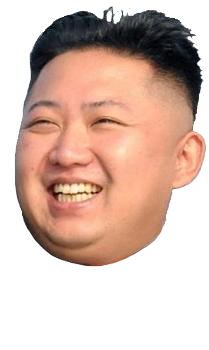
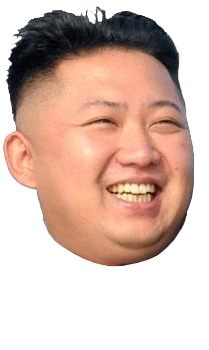
ajout de l'animation de début

diff --git a/www/style.css b/www/style.css
@@ -3,6 +3,34 @@
   margin: 0;
 }
 
+/* .color-change-3x {
+	-webkit-animation: color-change-3x 6s linear infinite alternate both;
+	        animation: color-change-3x 6s linear infinite alternate both;
+}  */
+
+/* ----------------------------------------------
+ * Generated by Animista on 2018-2-1 15:2:23
+ * w: http://animista.net, t: @cssanimista
+ * ---------------------------------------------- */
+
+/**
+ * ----------------------------------------
+ * animation color-change-3x
+ * ----------------------------------------
+ */
+/* @keyframes color-change-3x {
+  0% {
+    background: rgb(255, 131, 192);
+  }
+  50% {
+    background: #b22cff;
+  }
+  100% {
+    background: #f55ace;
+  }
+} */
+
+
 #back {
   width: 100vw;
   height: 100vh;
@@ -10,29 +38,90 @@
   background-position: center;
   background-repeat: no-repeat;
   background-color: rgb(255, 131, 192);
-  z-index: -1;
+  z-index: 1;
   position: absolute;
   top: 0px;
-  /* background-attachment: fixed;  */
 }
-/* 
-#heads {
-  margin: 0 1px 1px 0;
-  width: auto;
-  height: auto;
-} */
+
+.roll-in-left {
+	-webkit-animation: roll-in-left 1.7s ease-out 2s 2 both;
+	        animation: roll-in-left 1.7s ease-out 2s 2 both;
+}
+
+ @-webkit-keyframes roll-in-left {
+  0% {
+    -webkit-transform: translateX(-800px) rotate(-540deg);
+            transform: translateX(-800px) rotate(-540deg);
+    opacity: 0;
+  }
+  100% {
+    -webkit-transform: translateX(0) rotate(0deg);
+            transform: translateX(0) rotate(0deg);
+    opacity: 1;
+  }
+}
+  @keyframes roll-in-left {
+    0% {
+      -webkit-transform: translateX(-800px) rotate(-540deg);
+              transform: translateX(-800px) rotate(-540deg);
+      opacity: 0;
+    }
+    100% {
+      -webkit-transform: translateX(0) rotate(0deg);
+              transform: translateX(0) rotate(0deg);
+      opacity: 1;
+    }
+  }
+
 
 #trump {
   z-index: 500;
   position: absolute;
-  height: 250px;
+  height: 200px;
   top : 190px;
   right: 250px;
   margin: 0;
 }
+.roll-in-right {
+	-webkit-animation: roll-in-right 1.7s ease-out 2s 2 both;
+          animation: roll-in-right 1.7s ease-out 2s 2 both;
+}
+/* ----------------------------------------------
+ * Generated by Animista on 2018-2-1 15:24:22
+ * w: http://animista.net, t: @cssanimista
+ * ---------------------------------------------- */
+
+/**
+ * ----------------------------------------
+ * animation roll-in-right
+ * ----------------------------------------
+ */
+ @keyframes roll-in-right {
+  0% {
+    -webkit-transform: translateX(800px) rotate(540deg);
+            transform: translateX(800px) rotate(540deg);
+    opacity: 0;
+  }
+  100% {
+    -webkit-transform: translateX(0) rotate(0deg);
+            transform: translateX(0) rotate(0deg);
+    opacity: 1;
+  }
+}
+@keyframes roll-in-right {
+  0% {
+    -webkit-transform: translateX(800px) rotate(540deg);
+            transform: translateX(800px) rotate(540deg);
+    opacity: 0;
+  }
+  100% {
+    -webkit-transform: translateX(0) rotate(0deg);
+            transform: translateX(0) rotate(0deg);
+    opacity: 1;
+  }
+}
 
 #kim {
-  transform:rotateY(180deg);
   z-index: 5;
   position: absolute;
   height: 250px;
@@ -72,6 +161,7 @@
 
 #launch #input {
   position: absolute;
+  padding: 0 10px 0 0 ;
   top: 240px;
   left: 250px;
   z-index: 99999;

diff --git a/www/projet-poo.html b/www/projet-poo.html
@@ -11,22 +11,22 @@
 <body>
 
   <section id="launch">
-    <img src="assets/cats-test.png" id="cats" alt="">
+    <img src="assets/cats_test3.jpg" id="cats" alt="">
     <div id="input">    
-      <input type="radio" name="player" id="selectkim" class="btn btn-secondary" unchecked> I want to be Kim </input>
+      <input type="radio" name="player" id="selectkim" class="btn btn-secondary" unchecked> I want to be Kim     </input>
       <input type="radio" name="player" id="selectdonald" class="btn btn-secondary" unchecked> I want to be Donald </input>
     </div>    
   </section>
 
   <!-- <section>
       <div id="heads"> -->
-        <img id="trump" src="assets/tr-head.png" alt="donald">
-        <img id="kim" src="assets/kim_jong_un_PNG28.png" alt="kim">
+        <img id="trump" class="roll-in-left" src="assets/tr-head.png" alt="donald">
+        <img id="kim" class="roll-in-right" src="assets/kim_jong_un_PNG28.png" alt="kim">
       <!-- </div>
   </section>   -->
 
 
-  <section id="back">
+  <section id="back" class="color-change-3x">
     <div  id="buttons">
       <button id="kiss1" class="btn btn-secondary"> Kiss </button>
       <button id="hug1" class="btn btn-secondary"> Hug </button>
